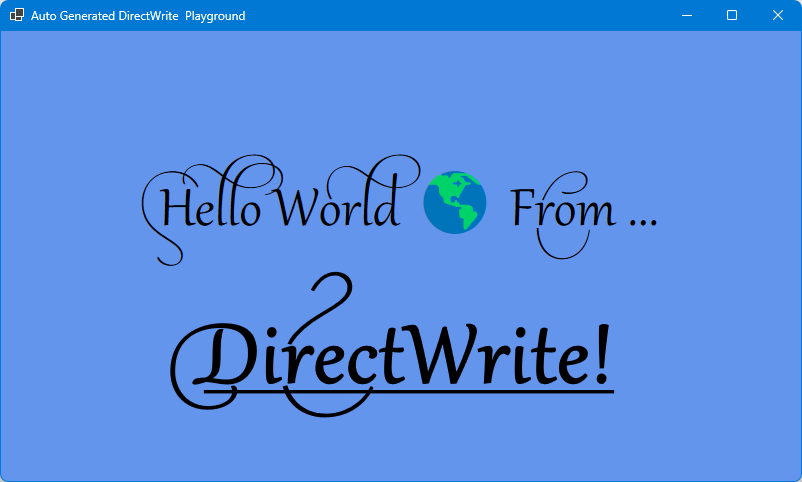
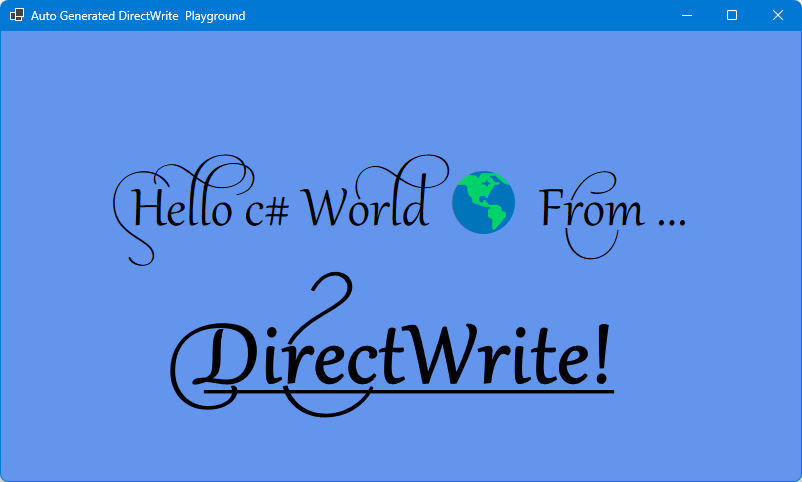
Tweeking the message.

Changed region(s): [[0.1247, 0.3112, 0.8416, 0.5602]]

diff --git a/AutoGenDirectWritePlayground/Form1.cs b/AutoGenDirectWritePlayground/Form1.cs
@@ -162,7 +162,7 @@ namespace AutoGenDirectWritePlayground
         {
             var black = Color.Black.ToD2D1_COLOR_F();
             RenderTarget?.CreateSolidColorBrush(&black, null, out blackBrush);
-            var text = "Hello World 🌎 From ... DirectWrite!";
+            var text = "Hello c# World 🌎 From ... DirectWrite!";
             textLayout = DirectWriteFactory?.CreateTextLayout(text, textFormat, RenderTarget?.GetSize() ?? default);
 
             var textTypographyRange = new DWRITE_TEXT_RANGE() { startPosition = 0u, length = (uint)text.Length };
@@ -170,8 +170,8 @@ namespace AutoGenDirectWritePlayground
             typography?.AddFontFeature(new DWRITE_FONT_FEATURE() { nameTag = DWRITE_FONT_FEATURE_TAG.DWRITE_FONT_FEATURE_TAG_STYLISTIC_SET_7, parameter = 1 });
             textLayout?.SetTypography(typography, textTypographyRange);
 
-            // (24, 12) is the range around "DirectWrite!"
-            var textDirectWriteRange = new DWRITE_TEXT_RANGE() { startPosition = 24u, length = 12u };
+            // (27, 12) is the text range around "DirectWrite!"
+            var textDirectWriteRange = new DWRITE_TEXT_RANGE() { startPosition = 27u, length = 12u };
             textLayout?.SetFontSize(100, textDirectWriteRange);
             textLayout?.SetUnderline(true, textDirectWriteRange);
             textLayout?.SetFontWeight(DWRITE_FONT_WEIGHT.DWRITE_FONT_WEIGHT_BOLD, textDirectWriteRange);
